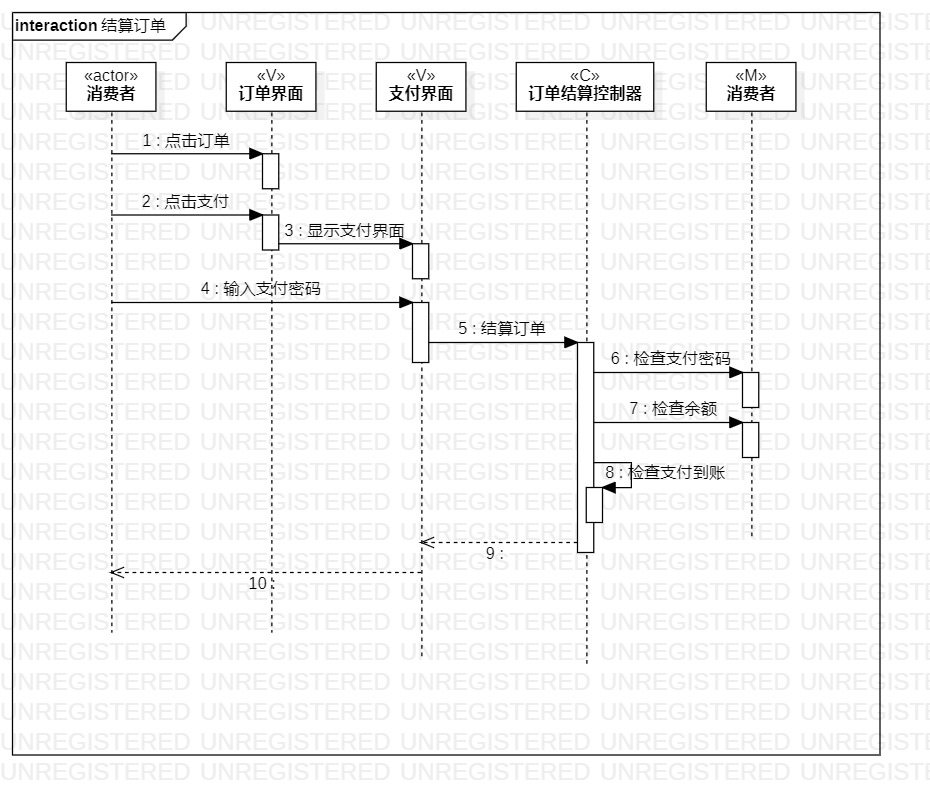
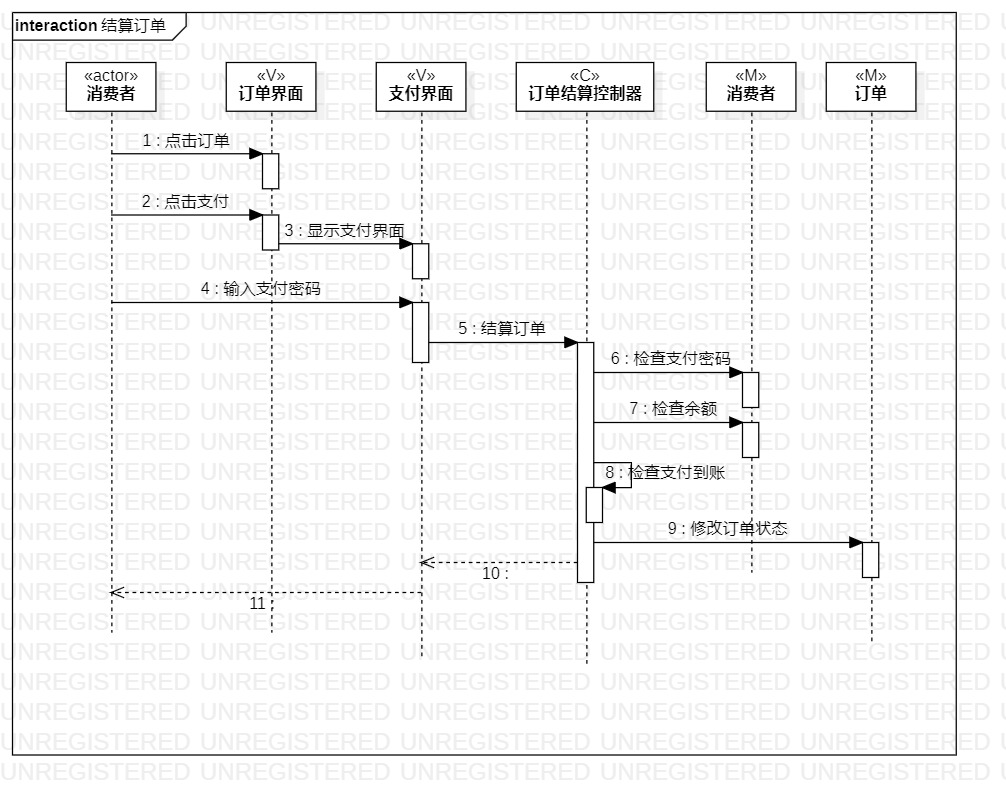
修改订单结算过程图和交互图

diff --git a/students/1714080902129/lab2.md b/students/1714080902129/lab2.md
@@ -37,7 +37,7 @@ https://github.com/hzuapps/uml-modeling-2020/issues
 ~| 7. 系统检查支付密码 |
 ~| 8. 系统检查到余额是否充足 |
 ~| 9. 系统检查支付已到帐 |
-~| 10. 订单支付完成
+~| 10. 修改订单状态
 扩展流程  | 7.1 系统检查到支付密码不正确，提示"您输入的支付密码错误,请重新输入" | 用例执行失败
 ~|  8.1 系统检测到消费者余额不足，提示"您的余额不足,请先充值" |
 
